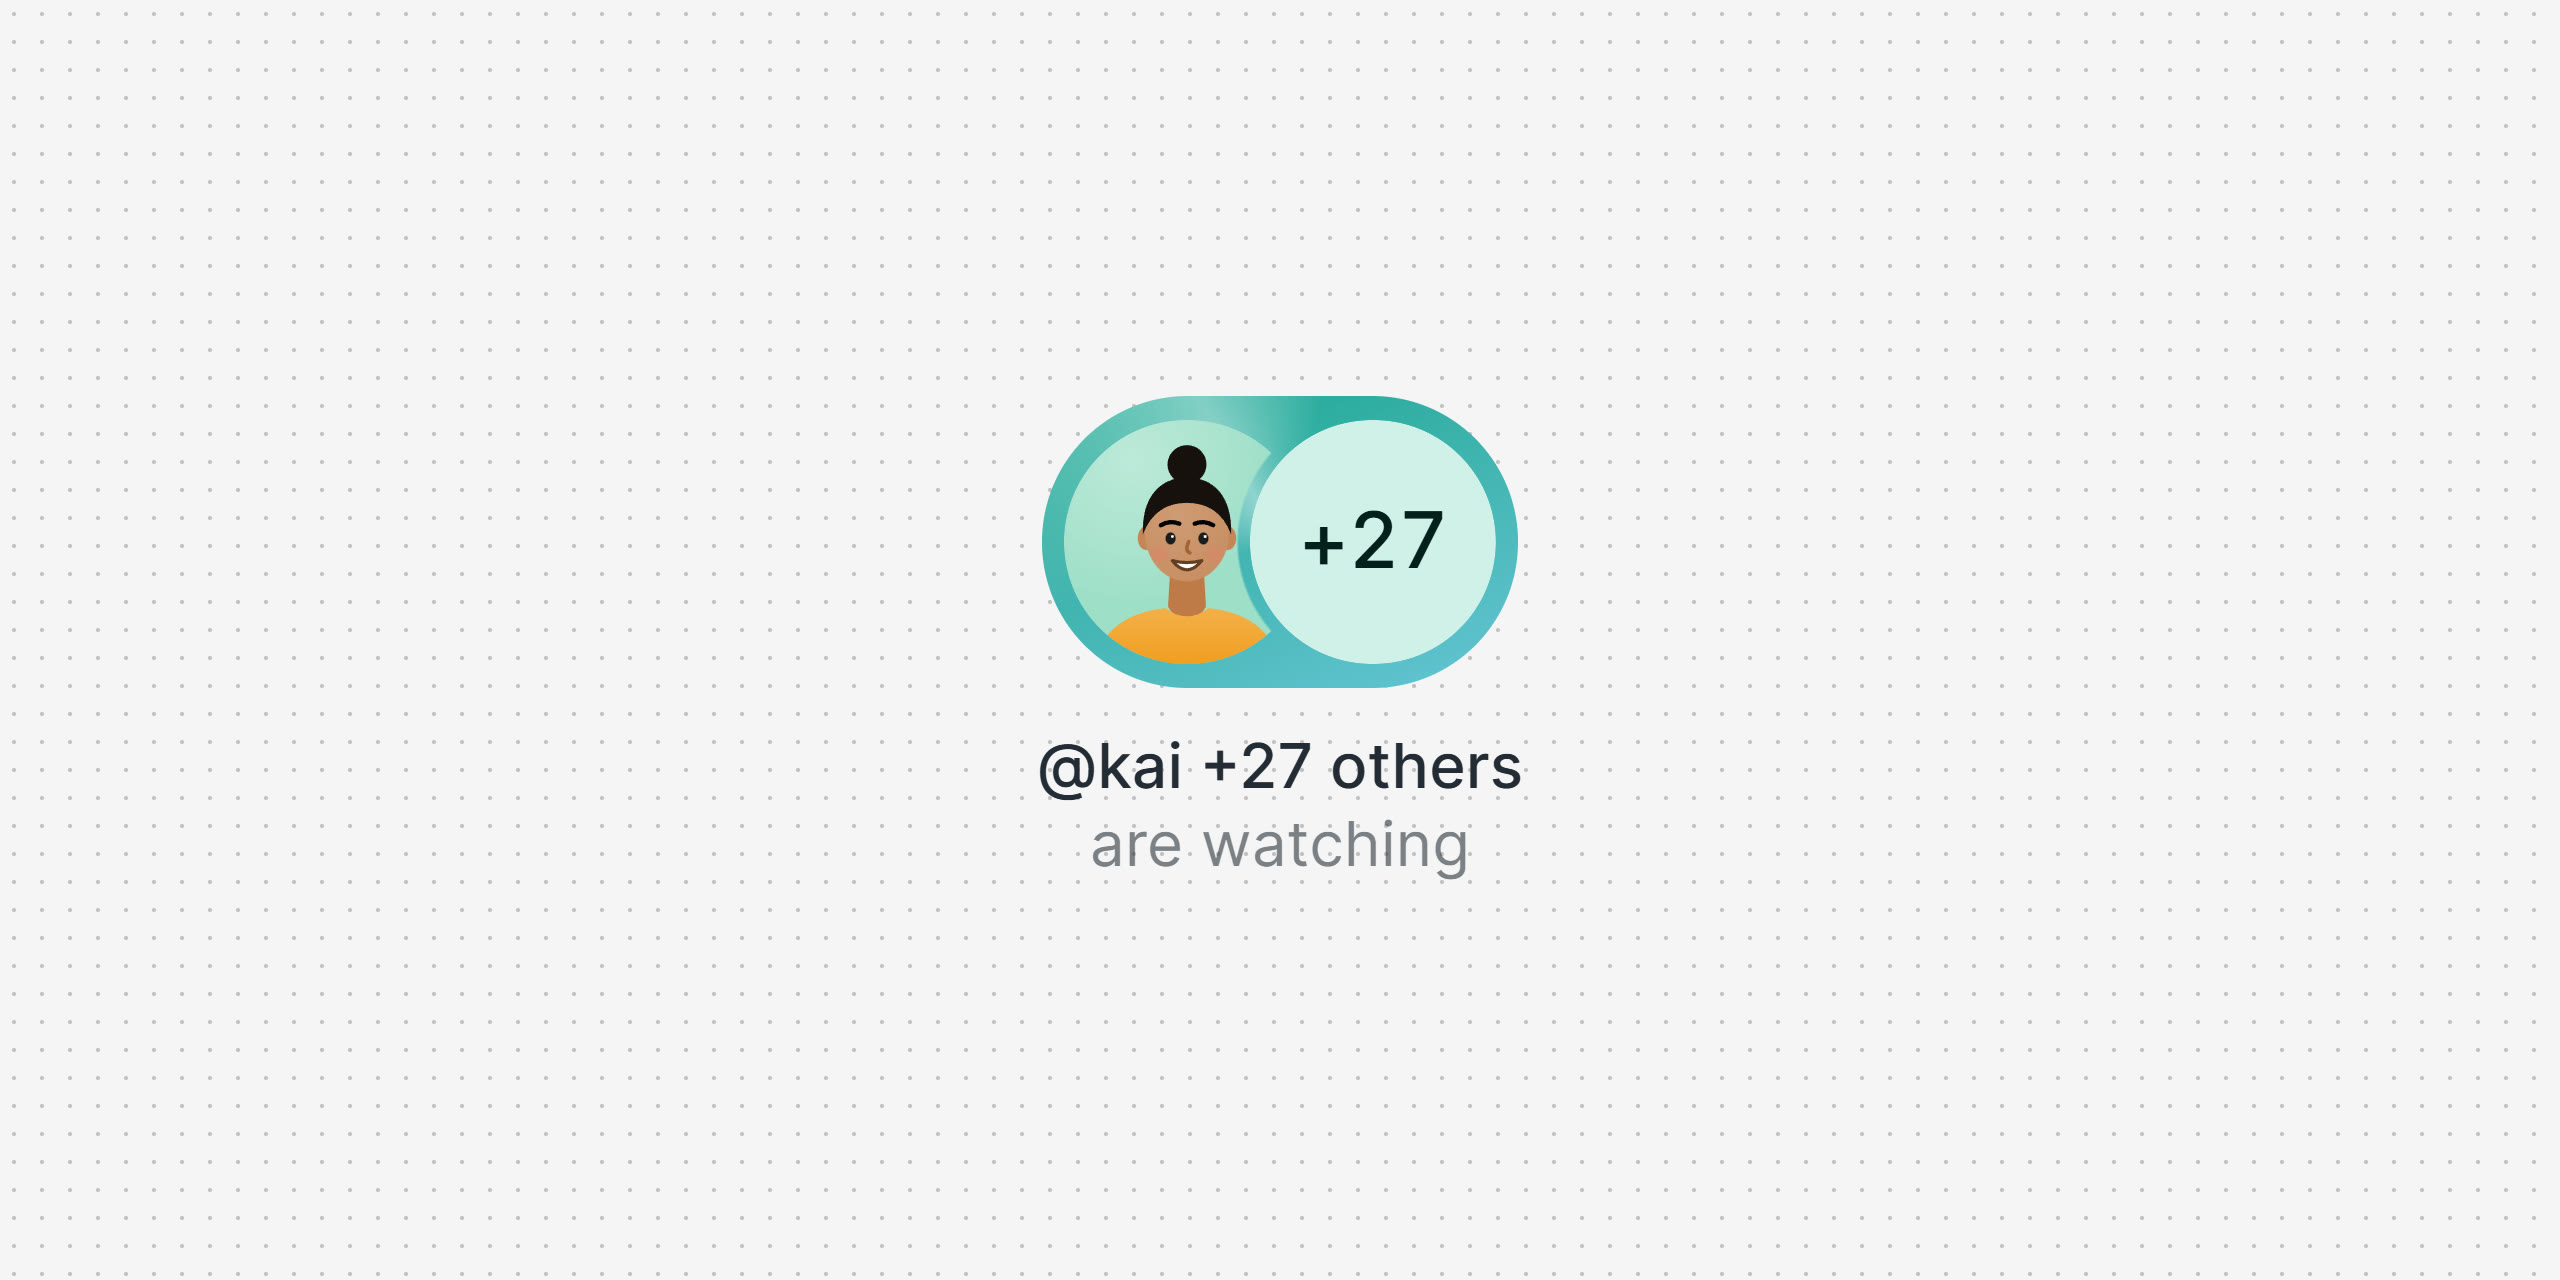
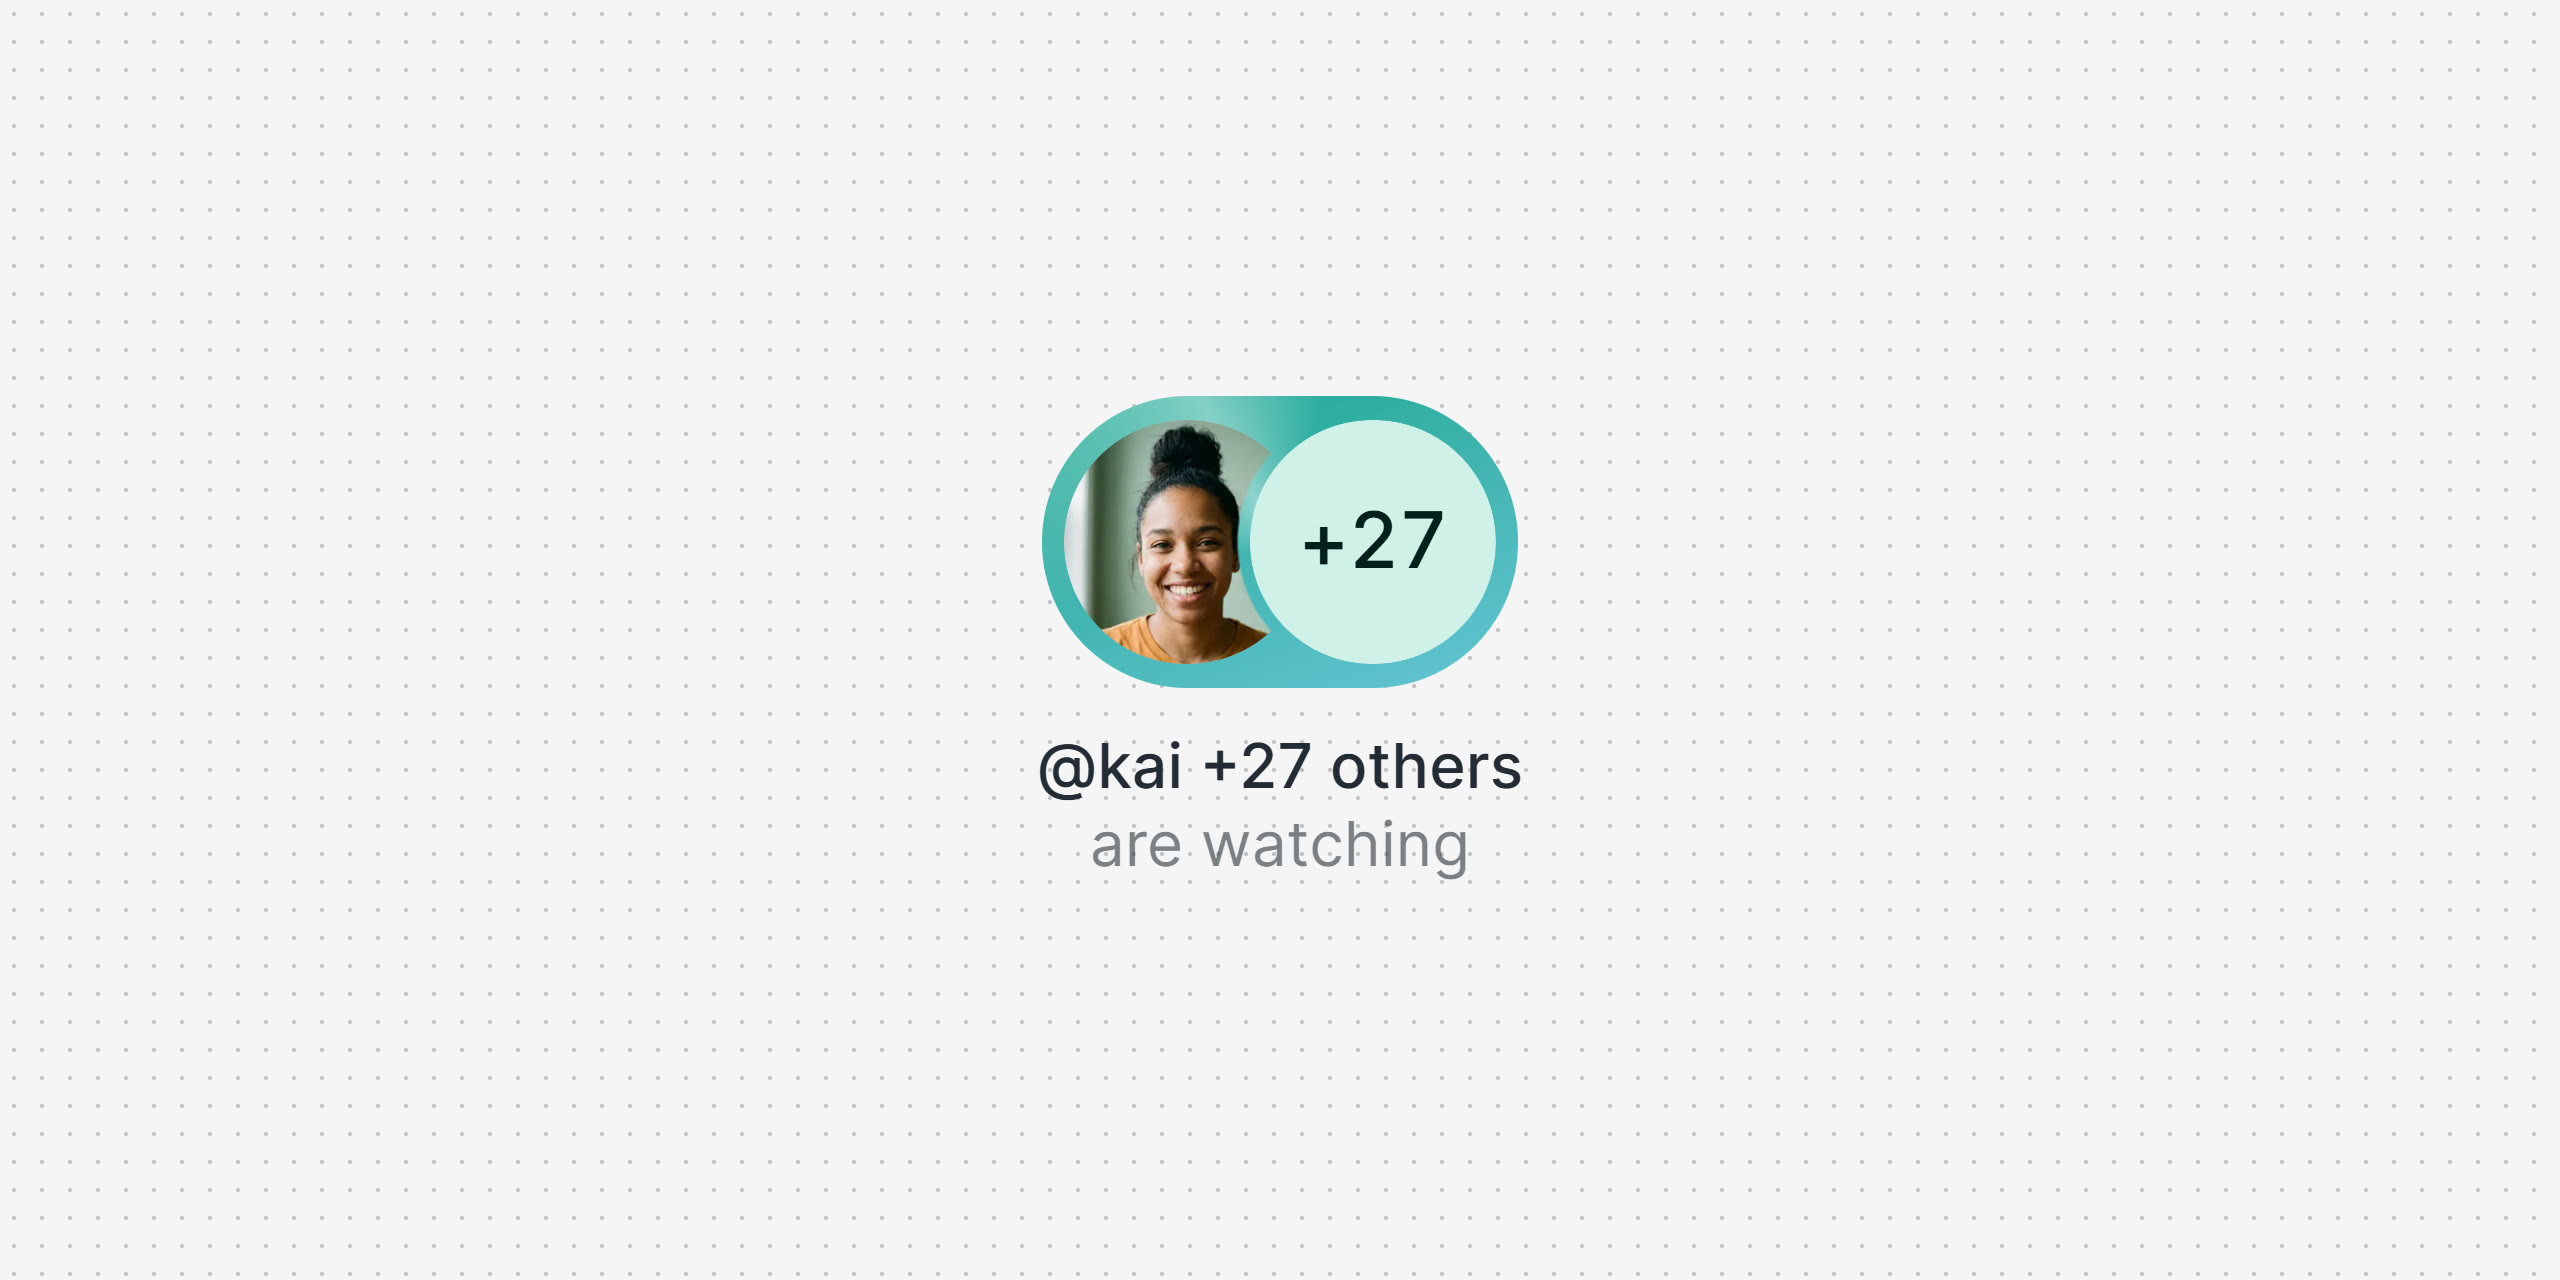
Install as @likemiens/presence: npm i github:Likemiens/presence

Changed region(s): [[0.4062, 0.3125, 0.5, 0.5312]]

diff --git a/example.html b/example.html
@@ -31,8 +31,8 @@
   <!-- faces and what they are doing -->
   <lm-presence
     people='[
-      {"name": "@mila", "avatar": "avatars/mila.svg"},
-      {"name": "@ivan", "avatar": "avatars/ivan.svg"}
+      {"name": "@mila", "avatar": "avatars/mila.webp"},
+      {"name": "@ivan", "avatar": "avatars/ivan.webp"}
     ]'
     activity="are on a walk"
     accent="#f45458"
@@ -45,9 +45,9 @@
   <lm-presence
     id="room"
     people='[
-      {"id": "kai", "name": "@kai", "avatar": "avatars/kai.svg"},
-      {"id": "noor", "name": "@noor", "avatar": "avatars/noor.svg"},
-      {"id": "leo", "name": "@leo", "avatar": "avatars/leo.svg"}
+      {"id": "kai", "name": "@kai", "avatar": "avatars/kai.webp"},
+      {"id": "noor", "name": "@noor", "avatar": "avatars/noor.webp"},
+      {"id": "leo", "name": "@leo", "avatar": "avatars/leo.webp"}
     ]'
     count="24"
     max="3"

diff --git a/README.md b/README.md
@@ -60,11 +60,11 @@ You get two faces and +10 on a violet ring, with "@walentina +11 others" and "ar
 ### With a bundler
 
 ```bash
-npm install github:Likemiens/presence
+npm i github:Likemiens/presence
 ```
 
 ```js
-import "presence"; // registers <lm-presence>
+import "@likemiens/presence"; // registers <lm-presence>
 
 const chip = document.querySelector("lm-presence");
 chip.people = [{ name: "@walentina", avatar: "/avatars/walentina.jpg" }, { name: "@kai" }];
@@ -78,7 +78,7 @@ React 19 passes properties and booleans straight to the element. Events come thr
 
 ```jsx
 import { useEffect, useRef } from "react";
-import "presence";
+import "@likemiens/presence";
 
 export function Presence({ onSelect, ...props }) {
   const ref = useRef(null);
@@ -94,7 +94,7 @@ export function Presence({ onSelect, ...props }) {
 <Presence people={people} count={12} activity="are running" accent="#3b1fd1" interactive onSelect={openRoom} />
 ```
 
-With server rendering (Next.js and the like), load it in the browser only, `useEffect(() => { import("presence"); }, [])`, and pass `people` as a JSON string: a string works even before the element is defined.
+With server rendering (Next.js and the like), load it in the browser only, `useEffect(() => { import("@likemiens/presence"); }, [])`, and pass `people` as a JSON string: a string works even before the element is defined.
 
 ### Vue
 
@@ -201,7 +201,7 @@ Set `people` and `count` in the same tick and the chip redraws once. Assign a ne
 
 ### TypeScript
 
-`presence.d.ts` types the element, `querySelector("lm-presence")`, the `lm-select` event and `customElements.get("lm-presence")?.version`. A bundler picks it up from `import "presence"`; next to a script tag, add `/// <reference path="./presence.d.ts" />`. For JSX, declare the tag once:
+`presence.d.ts` types the element, `querySelector("lm-presence")`, the `lm-select` event and `customElements.get("lm-presence")?.version`. A bundler picks it up from `import "@likemiens/presence"`; next to a script tag, add `/// <reference path="./presence.d.ts" />`. For JSX, declare the tag once:
 
 ```ts
 /// <reference types="presence" />
@@ -231,7 +231,7 @@ Current Chrome, Edge and Firefox, and Safari 16.4 or newer. Where a browser lack
 presence.js     the element: one file, no dependencies
 presence.d.ts   TypeScript types
 example.html    three chips to try it without a build
-avatars/        the demo faces (SVG)
+avatars/        the demo faces
 media/          the cover, the preview and the video
 AGENTS.md       notes for coding agents
 ```

diff --git a/AGENTS.md b/AGENTS.md
@@ -5,7 +5,7 @@ Notes for coding agents adding `<lm-presence>` to a project; people read [README
 ## Install
 
 - Any page: `<script src="https://cdn.jsdelivr.net/gh/Likemiens/presence@v1.0.3/presence.js" defer></script>`, then `<lm-presence>` anywhere. Unpinned and always latest: `https://likemiens.com/ui/presence/presence.js`.
-- Bundler: `npm install github:Likemiens/presence`, then `import "presence";` once. It registers the tag and exports nothing; the types come with the import.
+- Bundler: `npm i github:Likemiens/presence`, then `import "@likemiens/presence";` once. It registers the tag and exports nothing; the types come with the import.
 
 ## Contract
 
@@ -41,7 +41,7 @@ import { useEffect, useRef } from "react";
 
 export function Presence({ people = [], onSelect, ...props }) {
   const ref = useRef(null);
-  useEffect(() => { import("presence"); }, []); // browser only; registers <lm-presence> once
+  useEffect(() => { import("@likemiens/presence"); }, []); // browser only; registers <lm-presence> once
   useEffect(() => {
     const chip = ref.current;
     const select = (event) => onSelect?.(event.detail);
@@ -53,7 +53,7 @@ export function Presence({ people = [], onSelect, ...props }) {
 }
 ```
 
-Vue 3: `isCustomElement: (tag) => tag.startsWith("lm-")` in the Vue compiler options, `import "presence"` in main.js before `mount()`, then `<lm-presence :people="people" :count="total" interactive @lm-select="open($event.detail)" />`.
+Vue 3: `isCustomElement: (tag) => tag.startsWith("lm-")` in the Vue compiler options, `import "@likemiens/presence"` in main.js before `mount()`, then `<lm-presence :people="people" :count="total" interactive @lm-select="open($event.detail)" />`.
 
 Live updates from a socket:
 
